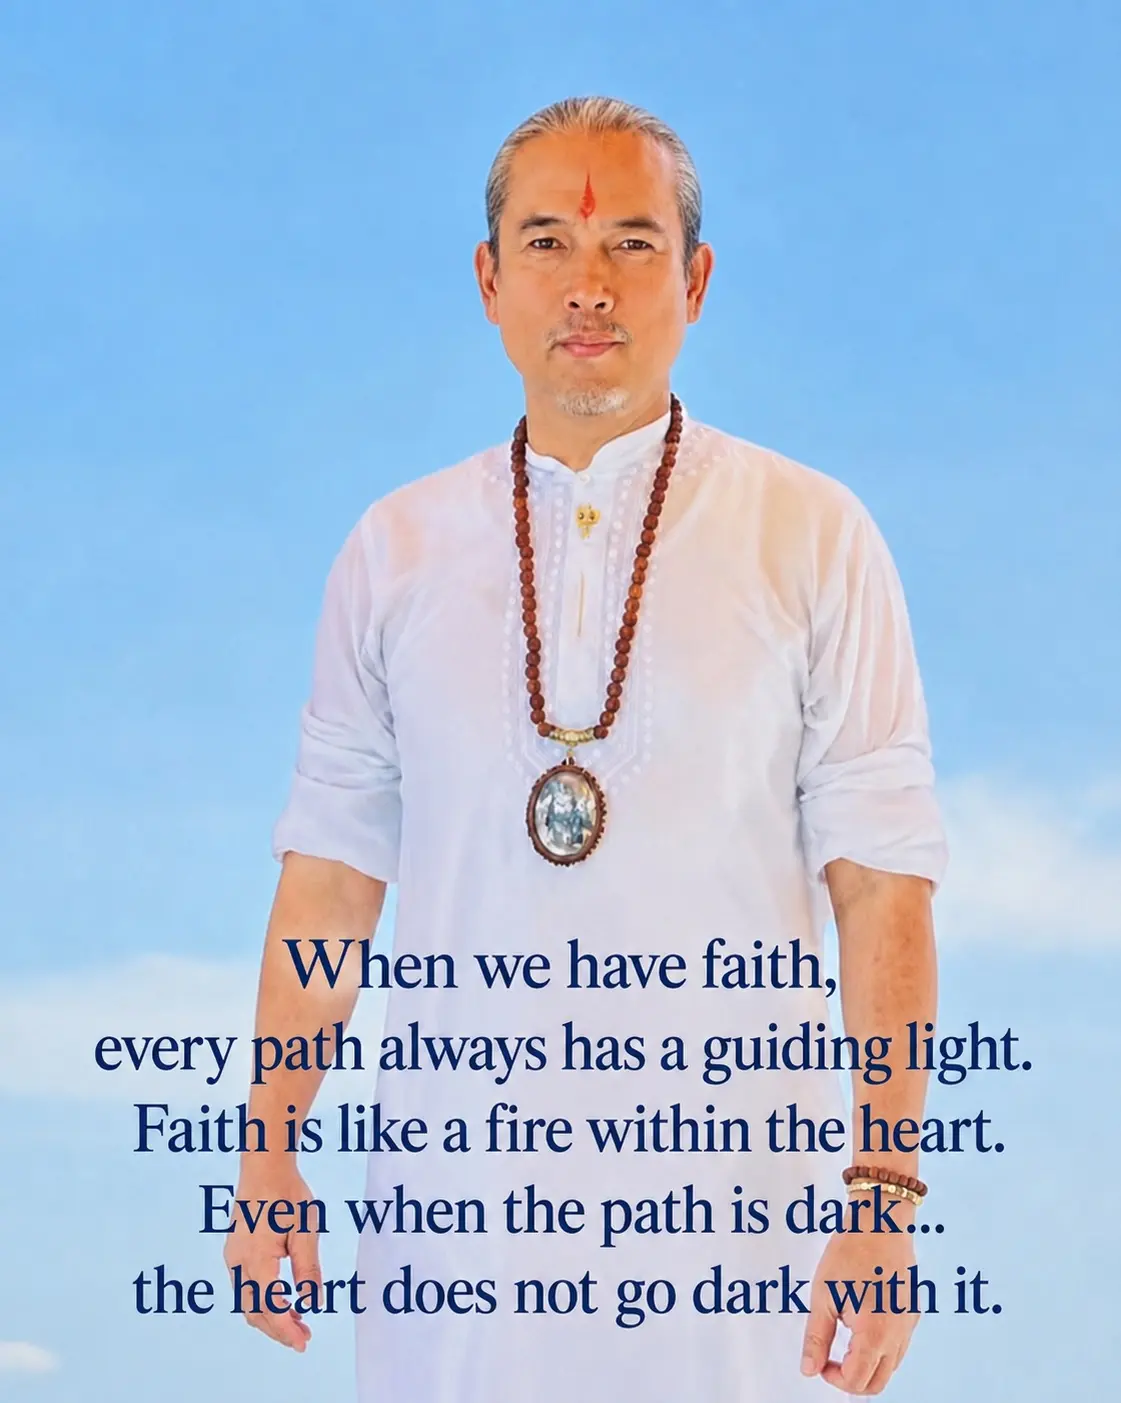
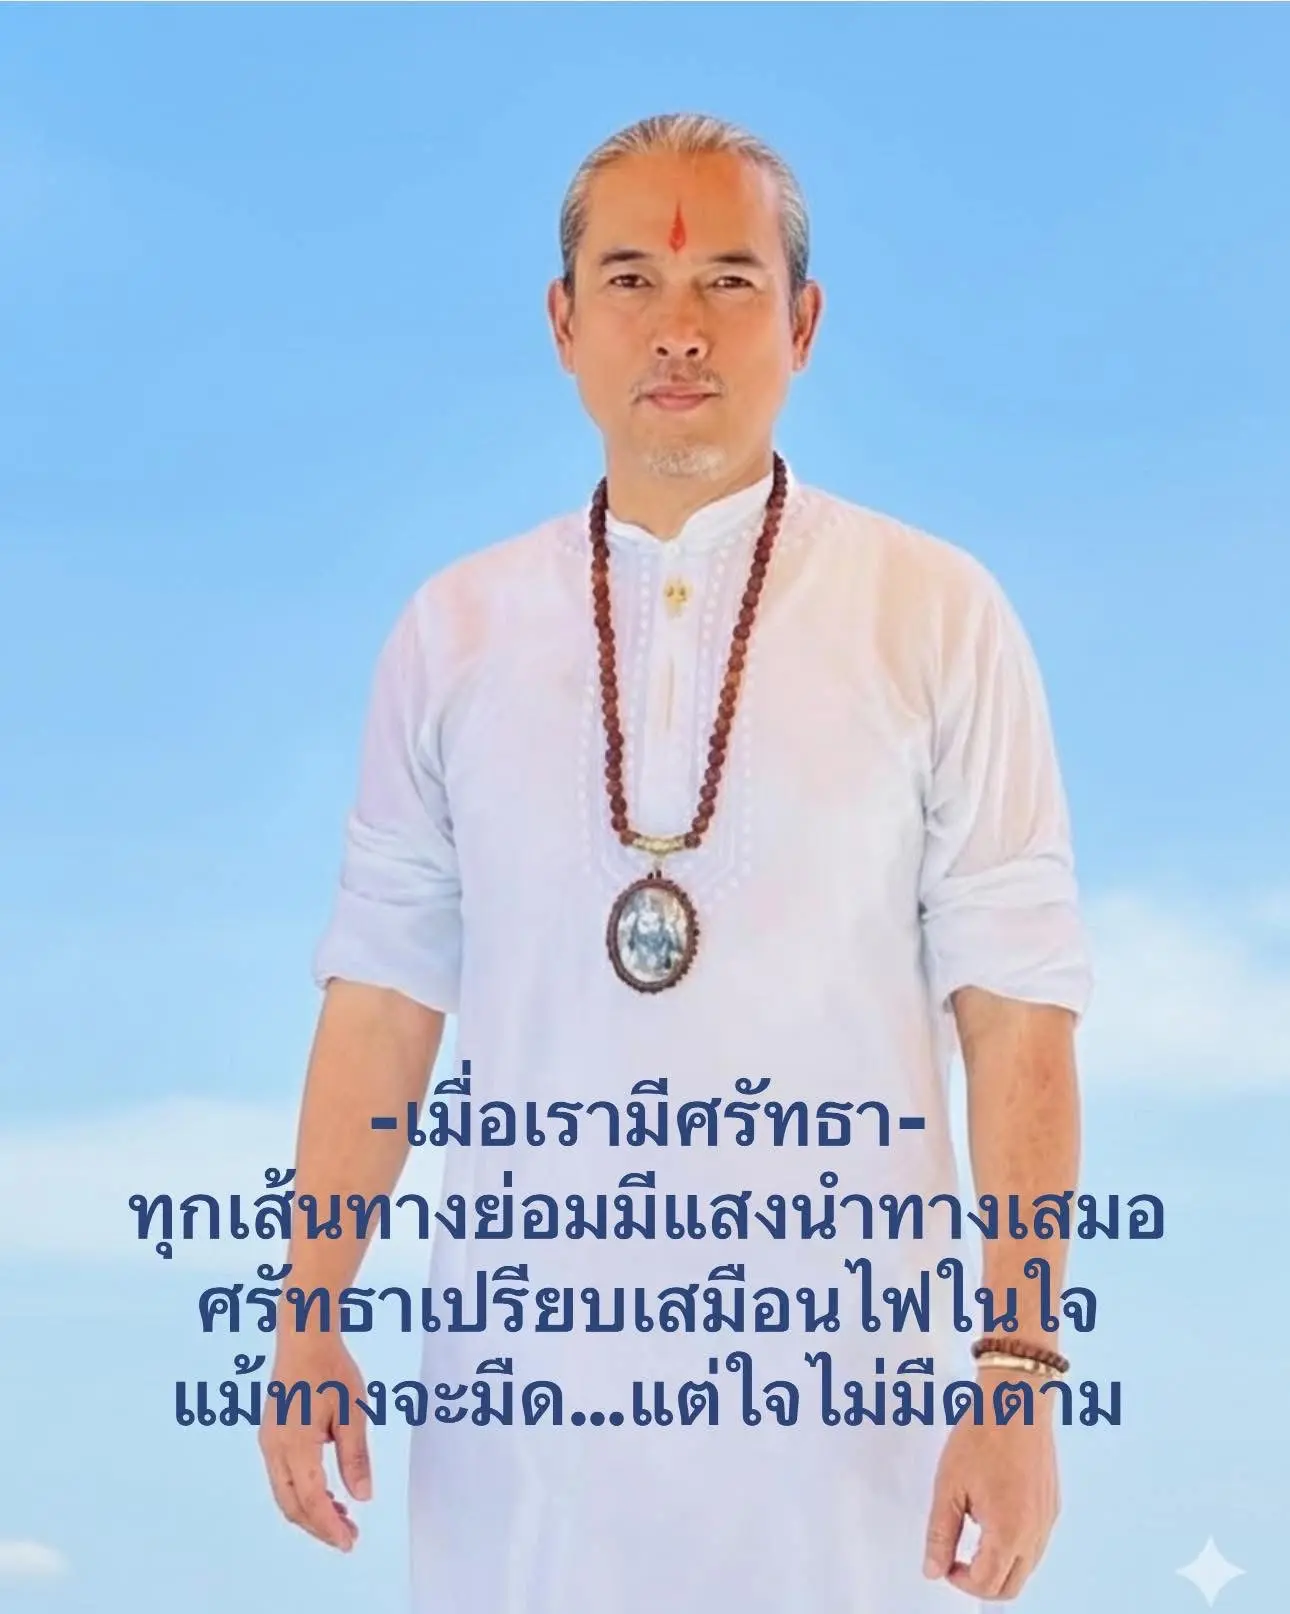
Add files via upload

diff --git a/international.html b/international.html
@@ -42,7 +42,7 @@ h2.section-title{margin-top:0;text-align:center;border:0;color:var(--red)}
 </head>
 <body>
 <header>
-<img class="hero-photo" src="https://mahamaneejinda-create.github.io/Dhamma-gift-chant/portrait.webp" width="700" height="876" alt="Ajarn Pol Mahamaneejinda">
+<img class="hero-photo" src="https://mahamaneejinda-create.github.io/Dhamma-gift-chant/portrait-en.webp" width="700" height="876" alt="Ajarn Pol Mahamaneejinda">
 <div class="kicker">Dhamma Gift · International Edition</div>
 <h1>Chant for Peace and Auspiciousness</h1>
 <div class="subtitle">Standard Pāli in Roman Script · Roman Pronunciation Guide · English Translation</div>
@@ -102,7 +102,7 @@ h2.section-title{margin-top:0;text-align:center;border:0;color:var(--red)}
 <a class="contact" href="https://line.me/ti/p/@harulada" target="_blank" rel="noopener noreferrer"><strong>LINE</strong><span>LINE<span class="tap">Tap to open</span></span></a>
 <a class="contact" href="https://www.tiktok.com/@pol65454" target="_blank" rel="noopener noreferrer"><strong>♪</strong><span>TikTok<span class="tap">Tap to open</span></span></a>
 <a class="contact" href="https://www.instagram.com/pol_mahamaneejinda" target="_blank" rel="noopener noreferrer"><strong>◎</strong><span>Instagram<span class="tap">Tap to open</span></span></a>
-<a class="contact" href="https://youtube.com/channel/UCoDI7P64bJo3S2GVkRuz2xA?si=_lscT9YXHUss0Re0" target="_blank" rel="noopener noreferrer"><strong>▶</strong><span>YouTube<span class="tap">Tap to open</span></span></a>
+<a class="contact" href="https://youtube.com/channel/UCoDI7P64bJo3S2GVkRuz2xA?si=_lscT9YXHUss0Re0" target="_blank" rel="noopener noreferrer" aria-label="YouTube"><strong style="font-size:22px;min-height:34px;display:flex;align-items:center">▶</strong><span>YouTube<span class="tap">Tap to open</span></span></a>
 </div>
 
 <section class="evidence"><h2>Source and Editorial Record</h2>
